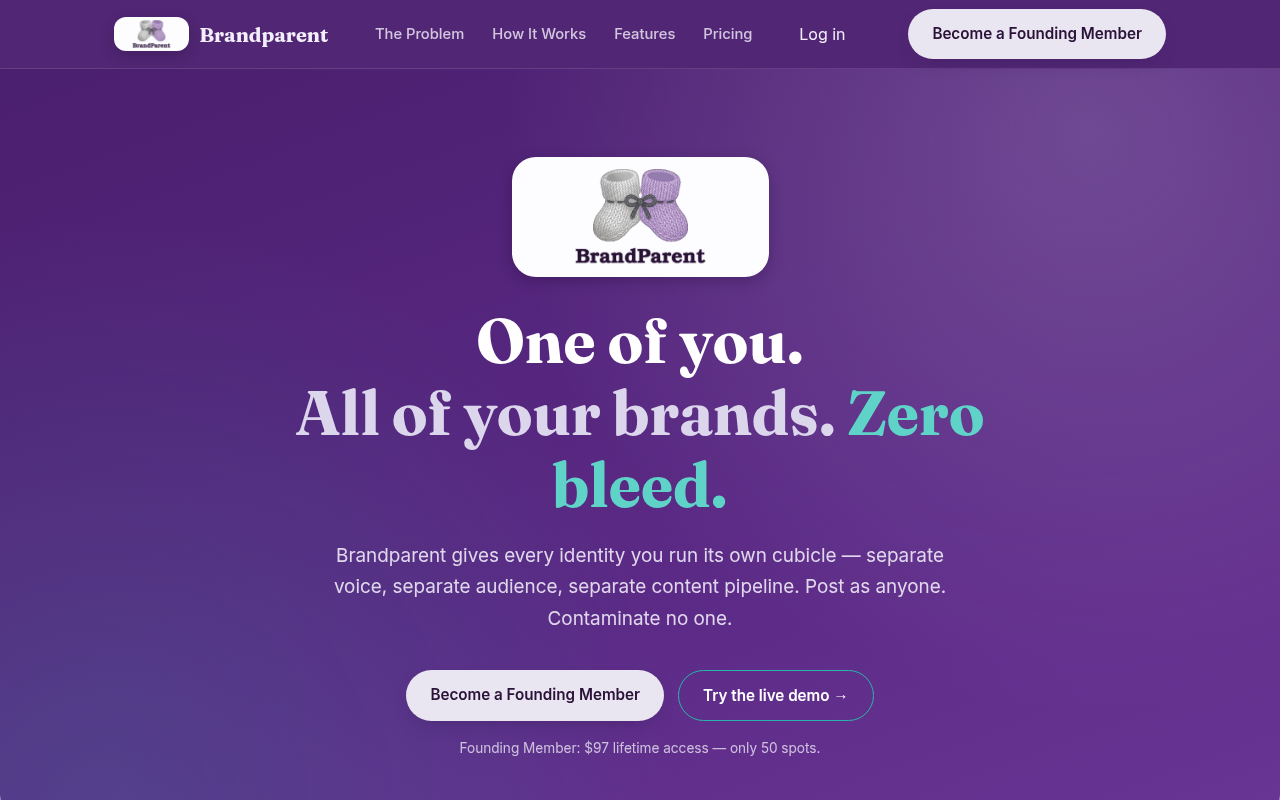
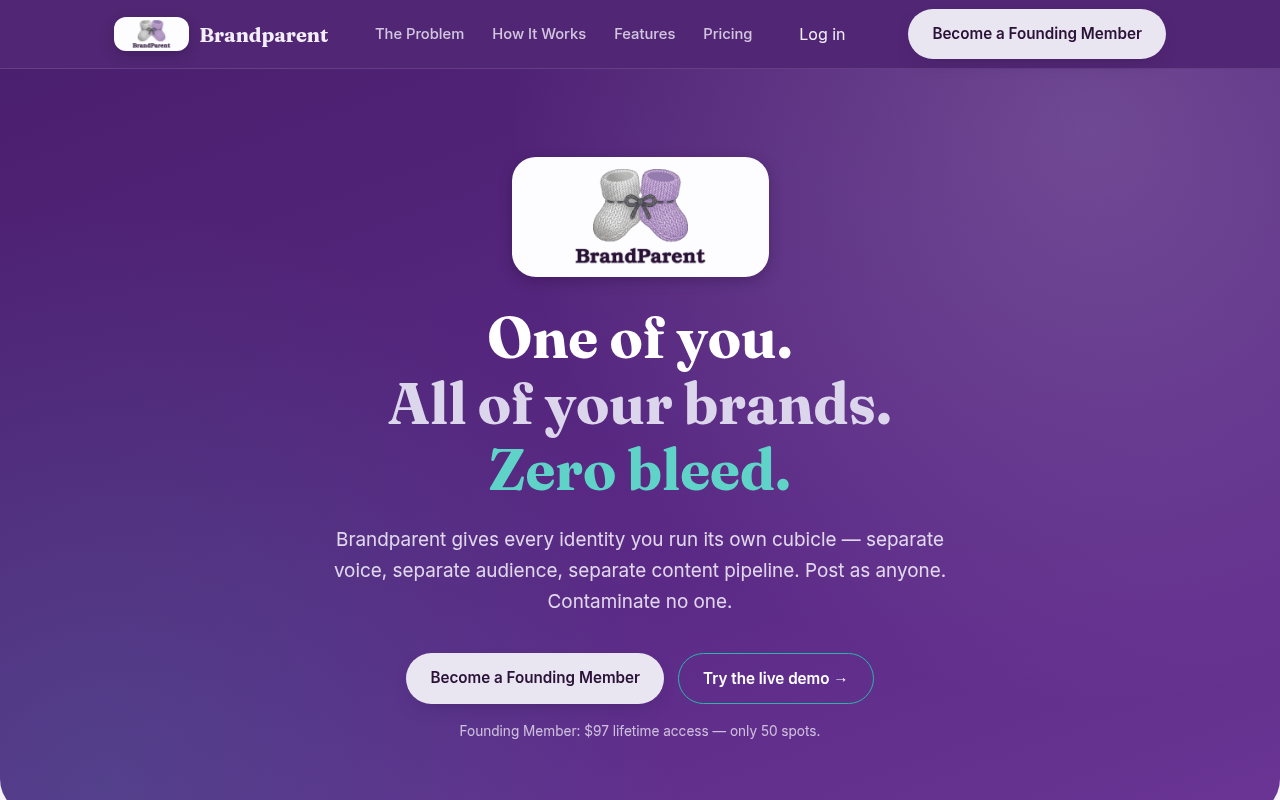
Landing hero: three-line headline (One of you. / All of your brands. / Zero bleed.)

Changed region(s): [[0.2188, 0.375, 0.7812, 0.7812], [0.3125, 0.8125, 0.6562, 0.9375]]

diff --git a/index.html b/index.html
@@ -180,6 +180,10 @@
   h1{color:#fff}
   h1 .teal{color:var(--lavender-silver)}
   h1 .coral{color:var(--teal-on-purple)}
+  /* three-line headline: "One of you." / "All of your brands." / "Zero bleed." */
+  header h1{font-size:clamp(1.85rem,8vw,3.6rem);max-width:none}
+  header h1 .teal,header h1 .coral{display:block}
+  @media(min-width:380px){header h1 .teal,header h1 .coral{white-space:nowrap}}
   header .sub{color:rgba(243,239,250,.88)}
   header .hero-note{color:rgba(243,239,250,.75)}
   header .btn-ghost{color:#fff;border-color:var(--teal)}
